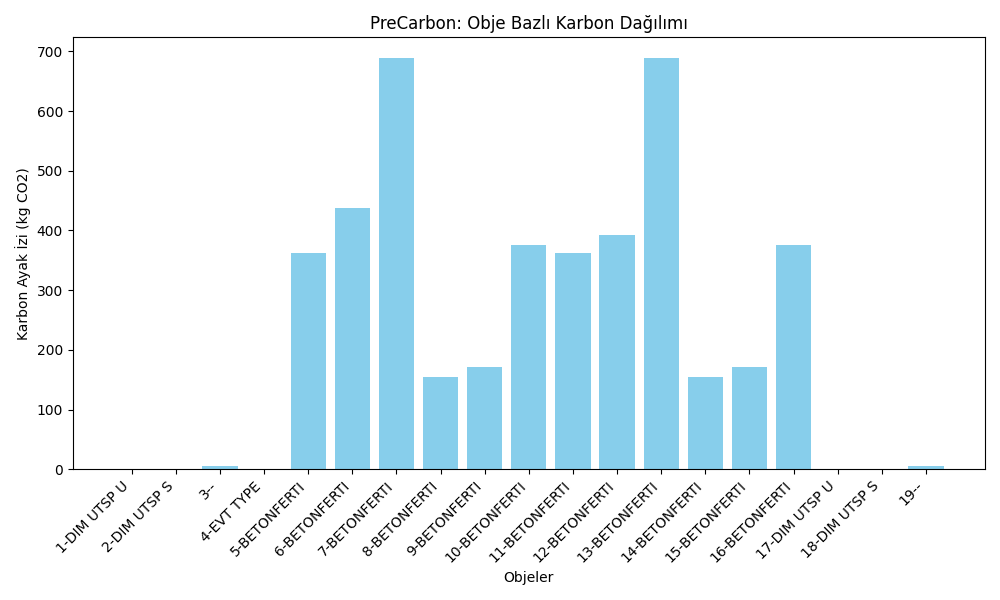
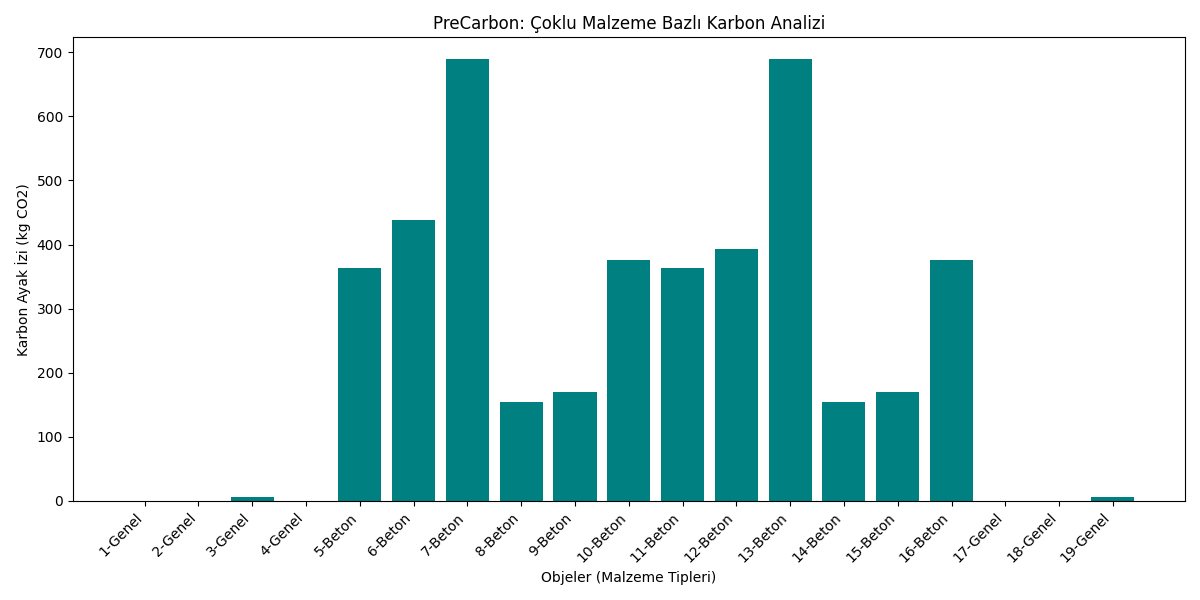
docs: profesyonel README eklendi ve tüm sistem finalize edildi

diff --git a/src/ifc_handler.py b/src/ifc_handler.py
@@ -6,62 +6,89 @@ import matplotlib.pyplot as plt
 
 
 def karbon_analizi_yap(dosya_yolu):
-    # 1. Katsayıları Yükle
+    # 1. Katsayıları JSON'dan Yükle
     json_path = os.path.join(os.path.dirname(__file__), "..", "data", "carbon_factors.json")
-    with open(json_path, "r", encoding="utf-8") as f:
-        katsayilar = json.load(f)["materials"]
+    try:
+        with open(json_path, "r", encoding="utf-8") as f:
+            data = json.load(f)
+            katsayilar = data["materials"]
+    except Exception as e:
+        print(f"❌ JSON katsayı dosyası okunamadı: {e}")
+        return
 
     # 2. IFC ve Geometri Ayarları
     settings = ifcopenshell.geom.settings()
-    model = ifcopenshell.open(dosya_yolu)
-    objeler = model.by_type("IfcBuildingElementProxy")
+    try:
+        model = ifcopenshell.open(dosya_yolu)
+        objeler = model.by_type("IfcBuildingElementProxy")
+    except Exception as e:
+        print(f"❌ IFC dosyası açılamadı: {e}")
+        return
 
     isimler_listesi = []
     karbon_degerleri = []
+    toplam_karbon = 0
 
-    print(f"\n--- 🚀 AKILLI GEOMETRİ VE KARBON ANALİZİ ---")
+    print(f"\n--- 🚀 GELİŞMİŞ MALZEME VE KARBON ANALİZİ ---")
+    print(f"{'No':<3} | {'Obje İsmi':<15} | {'Malzeme':<10} | {'Hacim':<8} | {'Karbon':<10}")
+    print("-" * 65)
 
     for i, obje in enumerate(objeler, 1):
         isim = (obje.Name or f"Obje_{i}").upper()
 
-        # --- A SEÇENEĞİ: BOUNDING BOX HACİM HESABI ---
+        # --- HACİM HESABI (Bounding Box) ---
         try:
             shape = ifcopenshell.geom.create_shape(settings, obje)
-            # Objenin köşe noktalarından kutu boyutlarını buluyoruz
             verts = shape.geometry.verts
             x_coords = verts[0::3];
             y_coords = verts[1::3];
             z_coords = verts[2::3]
-
-            genislik = max(x_coords) - min(x_coords)
-            derinlik = max(y_coords) - min(y_coords)
-            yukseklik = max(z_coords) - min(z_coords)
-            hacim = genislik * derinlik * yukseklik
+            hacim = (max(x_coords) - min(x_coords)) * (max(y_coords) - min(y_coords)) * (max(z_coords) - min(z_coords))
         except:
-            hacim = 1.0  # Geometri okunamazsa güvenli liman
+            hacim = 1.0
 
-        # Karbon Hesaplama
-        faktor = katsayilar["BETONFERTIGTEIL"]["factor"] if "BETON" in isim else katsayilar["GENEL"]["factor"]
+            # --- GELİŞMİŞ MALZEME TAHMİN MEKANİZMASI ---
+        if any(keyword in isim for keyword in ["BETON", "CONCRETE", "BETONFERTIGTEIL"]):
+            faktor = katsayilar["BETON"]["factor"]
+            malzeme_etiketi = "Beton"
+        elif any(keyword in isim for keyword in ["STEEL", "CELIK", "IRON"]):
+            faktor = katsayilar["STEEL"]["factor"]
+            malzeme_etiketi = "Çelik"
+        elif any(keyword in isim for keyword in ["GLASS", "CAM"]):
+            faktor = katsayilar["GLASS"]["factor"]
+            malzeme_etiketi = "Cam"
+        elif any(keyword in isim for keyword in ["WOOD", "AHSAP", "TIMBER"]):
+            faktor = katsayilar["WOOD"]["factor"]
+            malzeme_etiketi = "Ahşap"
+        else:
+            faktor = katsayilar["GENEL"]["factor"]
+            malzeme_etiketi = "Genel"
+
         obje_karbon = hacim * faktor
+        toplam_karbon += obje_karbon
 
-        # Grafik için verileri listeye ekle
-        isimler_listesi.append(f"{i}-{isim[:10]}")
+        # Grafik için verileri kaydet
+        isimler_listesi.append(f"{i}-{malzeme_etiketi}")
         karbon_degerleri.append(obje_karbon)
 
-        print(f"{i}. {isim[:15]:<15} | Hacim: {hacim:.3f} m3 | Karbon: {obje_karbon:.2f} kg")
+        print(f"{i:<3} | {isim[:15]:<15} | {malzeme_etiketi:<10} | {hacim:<6.2f} m3 | {obje_karbon:>8.2f} kg")
 
-    # --- B SEÇENEĞİ: GRAFİK OLUŞTURMA ---
-    plt.figure(figsize=(10, 6))
-    plt.bar(isimler_listesi, karbon_degerleri, color='skyblue')
-    plt.xlabel('Objeler')
+    print("-" * 65)
+    print(f"BİNA TOPLAM KARBON AYAK İZİ: {toplam_karbon:.2f} kg CO2")
+
+    # --- GRAFİK OLUŞTURMA ---
+    plt.figure(figsize=(12, 6))
+    plt.bar(isimler_listesi, karbon_degerleri, color='teal')
+    plt.xlabel('Objeler (Malzeme Tipleri)')
     plt.ylabel('Karbon Ayak İzi (kg CO2)')
-    plt.title('PreCarbon: Obje Bazlı Karbon Dağılımı')
+    plt.title('PreCarbon: Çoklu Malzeme Bazlı Karbon Analizi')
     plt.xticks(rotation=45, ha='right')
     plt.tight_layout()
 
     # Grafiği kaydet ve göster
-    plt.savefig(os.path.join(os.path.dirname(__file__), "..", "data", "karbon_grafigi.png"))
-    print(f"\n📊 Grafik 'data/karbon_grafigi.png' olarak kaydedildi!")
+    grafik_yolu = os.path.join(os.path.dirname(__file__), "..", "data", "karbon_grafigi.png")
+    plt.savefig(grafik_yolu)
+    print(f"\n📊 Grafik güncellendi ve '{grafik_yolu}' konumuna kaydedildi!")
     plt.show()
 
 

diff --git a/app/main.py b/app/main.py
@@ -1,29 +1,33 @@
 import sys
 import os
+import tkinter as tk
+from tkinter import filedialog, messagebox
 
-# src klasöründeki kodlara ulaşabilmek için yolu tanıtıyoruz
+# src klasöründeki fonksiyonu içeri aktar
 sys.path.append(os.path.abspath(os.path.join(os.path.dirname(__file__), '..')))
-
 from src.ifc_handler import karbon_analizi_yap
 
 
-def uygulama_baslat():
-    print("=" * 50)
-    print("🌍 PRECARBON: ERKEN AŞAMA KARBON TAHMİN ARACI")
-    print("=" * 50)
+def dosya_sec_ve_baslat():
+    # Dosya seçme penceresini aç
+    root = tk.Tk()
+    root.withdraw()  # Ana pencereyi gizle, sadece dosya seçiciyi göster
 
-    # Veri dosyamızın yolu
-    ifc_yolu = os.path.join(os.path.dirname(__file__), "..", "data", "deneme.ifc")
+    file_path = filedialog.askopenfilename(
+        title="Analiz Edilecek IFC Dosyasını Seçin",
+        filetypes=[("IFC Files", "*.ifc"), ("All Files", "*.*")]
+    )
 
-    if os.path.exists(ifc_yolu):
-        print(f"🔍 Analiz Ediliyor: {os.path.basename(ifc_yolu)}")
-        karbon_analizi_yap(ifc_yolu)
+    if file_path:
+        try:
+            print(f"🚀 Seçilen dosya üzerinde analiz başlatılıyor: {file_path}")
+            karbon_analizi_yap(file_path)
+            messagebox.showinfo("Başarılı", "Analiz tamamlandı ve grafik oluşturuldu!")
+        except Exception as e:
+            messagebox.showerror("Hata", f"Analiz sırasında bir sorun oluştu:\n{e}")
     else:
-        print("❌ Hata: 'data' klasöründe 'deneme.ifc' dosyası bulunamadı!")
-
-    print("\n" + "=" * 50)
-    print("✅ Analiz Tamamlandı.")
+        print("⚠️ Herhangi bir dosya seçilmedi.")
 
 
 if __name__ == "__main__":
-    uygulama_baslat()
+    dosya_sec_ve_baslat()

diff --git a/README.md b/README.md
@@ -1,10 +1,26 @@
-🏗️ PreCarbon: AI-Powered Early-Stage Carbon Prediction ToolPreCarbon, binaların çevresel etkilerinin %80'inin belirlendiği "erken tasarım" aşamasında, mimar ve mühendislere anlık karbon ayak izi geri bildirimi sağlayan yapay zeka tabanlı bir yazılımdır.🎯 Projenin Amacı (The "Why")Günümüzde inşaat sektöründeki karbon hesaplamaları genellikle tasarım bittikten sonra yapılır; bu aşamada projede değişiklik yapmak oldukça maliyetlidir. PreCarbon bu sorunu şu şekilde çözer:Erken Müdahale: Tasarım henüz konsept aşamasındayken anlık karbon tahminleri sunar.Veri Tamamlama: BIM (Building Information Modeling) modellerindeki eksik verileri Yapay Zeka ile doldurur.Sürdürülebilirlik: Mimarların en doğa dostu malzemeleri anında seçmesini sağlayarak küresel ısınmayı yavaşlatmaya katkıda bulunur.🛠️ Teknik Altyapı (How It Works)Sistem üç temel aşamada çalışır:Veri İşleme: Mimari BIM (IFC) dosyalarından Python altyapısıyla geometrik ve yapısal veriler otomatik olarak çıkarılır.Yapay Zeka: Makine öğrenmesi modelleri ile modeldeki eksikler tamamlanır ve malzemeler küresel karbon veri tabanlarıyla eşleştirilir.Arayüz: Tasarımcılara anlık tahminler sunan, esnek ve kullanıcı dostu bir dashboard üzerinden sonuçlar görselleştirilir.💻 Kullanılan TeknolojilerDil: PythonBIM İşleme: ifcopenshellVeri Analizi & AI: pandas, scikit-learnArayüz: streamlitVeri Kaynağı: ICE (Inventory of Carbon and Energy) Database📂 Proje YapısıPlaintextPreCarbon/
-├── app/          # Streamlit web arayüzü dosyaları
-├── data/         # Örnek .ifc dosyaları ve karbon veri tabanları
-├── notebooks/    # Veri analizi ve AI denemeleri
-├── src/          # Projenin ana kaynak kodları (Parsing, Calculation, AI)
-├── README.md     # Proje dokümantasyonu
-└── requirements.txt # Gerekli kütüphaneler listesi
-🚀 KurulumProjeyi yerel bilgisayarınızda çalıştırmak için:Depoyu klonlayın.Gerekli kütüphaneleri yükleyin:Bashpip install -r requirements.txt
-Uygulamayı başlatın:Bashstreamlit run app/main.py
-🌟 Gelecek VizyonuBu yazılım, daha temiz bir ekosistem ve sürdürülebilir bir gelecek için topluma fayda sağlamayı hedefler. Hedefimiz, inşaat sektörünün doğal kaynak tüketimini azaltarak gelecek nesillere daha yaşanabilir bir dünya bırakmaktır.
+# 🌍 PreCarbon: AI-Powered Early-Stage Carbon Prediction Tool
+
+**PreCarbon**, sürdürülebilir mimari ve inşaat projeleri için IFC (Industry Foundation Classes) modellerini analiz ederek, projenin henüz başında karbon ayak izini tahmin eden bir mühendislik aracıdır.
+
+## 🚀 Özellikler
+- **Geometrik Analiz:** IFC modellerindeki objelerin hacimlerini Bounding Box yöntemiyle otomatik hesaplar.
+- **Akıllı Malzeme Tahmini:** Obje isimlerinden (Beton, Çelik, Cam, Ahşap) malzeme türünü tahmin eder ve ilgili emisyon katsayılarını uygular.
+- **Görsel Raporlama:** Analiz sonuçlarını sütun grafikleri (`Matplotlib`) ile görselleştirir.
+- **Kullanıcı Dostu Arayüz:** `Tkinter` tabanlı dosya seçme arayüzü ile teknik olmayan kullanıcılar için kolaylık sağlar.
+
+## 🛠️ Kullanılan Teknolojiler
+- **Dil:** Python 3.x
+- **BIM Kütüphanesi:** [IfcOpenShell](http://ifcopenshell.org/)
+- **Veri Görselleştirme:** Matplotlib
+- **Arayüz:** Tkinter
+- **Versiyon Kontrol:** Git & GitHub
+
+## 📂 Proje Yapısı
+- `app/`: Uygulamanın yönetim merkezi (GUI ve Logic).
+- `src/`: IFC dosya işleme ve analiz motoru.
+- `data/`: Karbon katsayıları (JSON) ve IFC modelleri.
+
+## 📊 Örnek Çıktı
+![Analiz Grafiği](data/karbon_grafigi.png)
+
+---